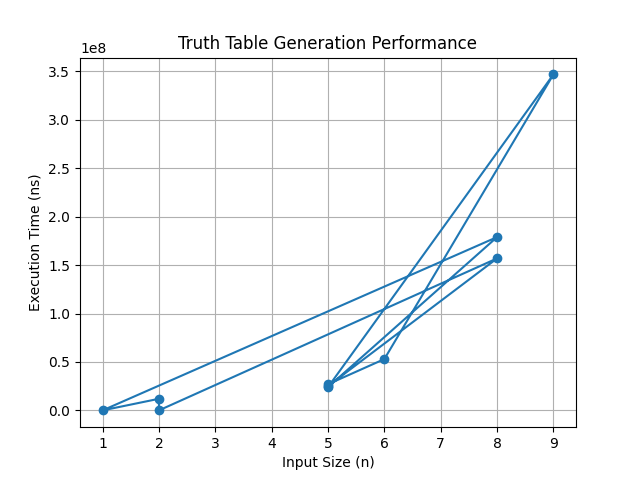
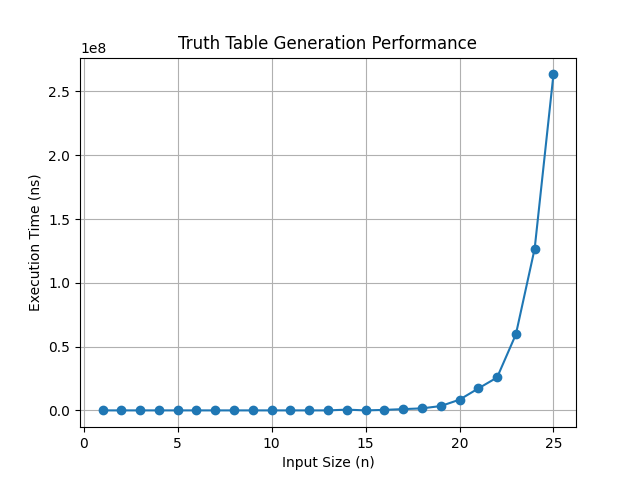
Initial commit: truth table performance analysis

diff --git a/truth_table/truthtable.cpp b/truth_table/truthtable.cpp
@@ -1,8 +1,9 @@
 #include <iostream>
 #include <fstream>
-#include <cstdlib>
 #include <ctime>
+#include <iomanip>
 using namespace std;
+
 void printCombinations(int pos, int n, string current) {
     if (pos == n) {
         cout << current << endl;
@@ -11,29 +12,31 @@ void printCombinations(int pos, int n, string current) {
     printCombinations(pos + 1, n, current + 'T');
     printCombinations(pos + 1, n, current + 'F');
 }
+
 void generateForTiming(int pos, int n) {
     if (pos == n)
         return;
-
     generateForTiming(pos + 1, n);
     generateForTiming(pos + 1, n);
 }
-double measureExecutionTime(int n) {
-    clock_t start = clock();
-     for (int i = 0; i < 100000; i++) {
-       generateForTiming(0, n);
+
+// Average timing for smooth graph
+double measureExecutionTime(int n, int runs = 5) {
+    double total = 0;
+    for (int i = 0; i < runs; i++) {
+        clock_t start = clock();
+        generateForTiming(0, n);
+        clock_t end = clock();
+        total += double(end - start) / CLOCKS_PER_SEC;
     }
-    clock_t end = clock();
- double seconds = double(end - start) / CLOCKS_PER_SEC;
-      return seconds* 1000000000.0;
+    return (total / runs) * 1e9; // ns
 }
 
 int main() {
-    srand(time(0));
-
     ofstream tablefile("truth_table.txt");
     ofstream csvFile("truth_csv.txt");
-    if (!tablefile  || !csvFile) {
+
+    if (!tablefile || !csvFile) {
         cout << "Error creating file!" << endl;
         return 1;
     }
@@ -42,30 +45,38 @@ int main() {
     tablefile << "-------------------------------------------------------------\n";
     csvFile << "Test,Input,Combinations,Time\n";
 
-    for (int test = 1; test <= 10; test++) {
-        int n = rand() % 10;
+    // ASCENDING INPUTS (smooth graph)
+    for (int test = 1; test <= 25; test++) {
+        int n = test;   // no randomness
+
         cout << "----------------------------------\n";
         cout << "Test Case " << test << endl;
-        cout << "Generated Input (n): " << n << endl;
-        cout << "Truth Table Combinations:\n";
-        printCombinations(0, n, "");
+        cout << "Input (n): " << n << endl;
+
+        if (n <= 5)  // printing small only
+            printCombinations(0, n, "");
+
         double execTime = measureExecutionTime(n);
-        int combinations = 1;
-        for (int i = 0; i < n; i++)
-            combinations *= 2;
-    cout << "\nExecution Time: " <<fixed<< execTime << " nanoseconds\n";
-       
+
+        long long combinations = 1LL << n;
+
+        cout << "Execution Time: " << execTime << " ns\n";
+
         tablefile << test << "\t\t"
-             << n << "\t\t"
-             << combinations << "\t\t\t"
-             <<fixed<< execTime << "\n";
+                  << n << "\t\t"
+                  << combinations << "\t\t\t"
+                  << fixed << execTime << "\n";
+
         csvFile << test << ","
                 << n << ","
                 << combinations << ","
                 << execTime << "\n";
     }
+
     tablefile.close();
     csvFile.close();
     cout << "\nExecution time table saved in truth_table.txt\n";
     return 0;
 }
+
+

diff --git a/truth_table/plot_truthtable.py b/truth_table/plot_truthtable.py
@@ -2,7 +2,7 @@ import pandas as pd
 import matplotlib.pyplot as plt
 
 data = pd.read_csv("truth_csv.txt")
-
+data = data.sort_values(by="Input")
 x = data["Input"]
 y = data["Time"]
 
